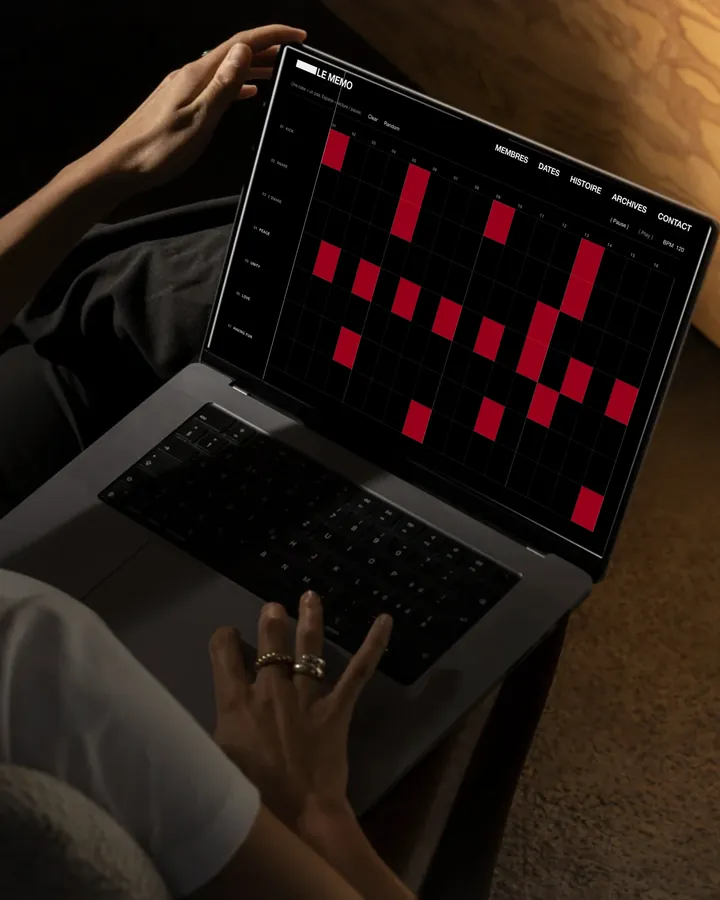
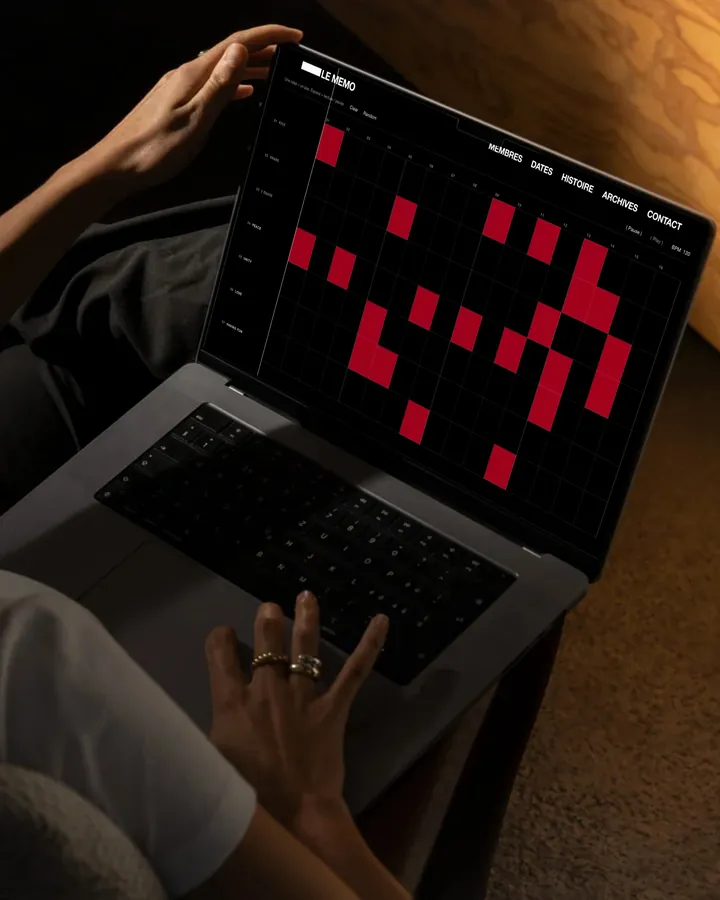
Work : nouvelle photo de mise en situation pour LE MEMO

diff --git a/work.html b/work.html
@@ -641,8 +641,8 @@
                     <article class="piece reveal">
                         <a class="piece__link" href="https://lememo-eight.vercel.app/" target="_blank" rel="noopener noreferrer">
                             <div class="piece__media">
-                                <img class="piece__img" src="assets/images/work-memo-720.webp?v=2"
-                                    srcset="assets/images/work-memo-720.webp?v=2 720w, assets/images/work-memo-1440.webp?v=2 1440w"
+                                <img class="piece__img" src="assets/images/work-memo-720.webp?v=3"
+                                    srcset="assets/images/work-memo-720.webp?v=3 720w, assets/images/work-memo-1440.webp?v=3 1440w"
                                     sizes="(min-width: 1100px) 30vw, (min-width: 760px) 46vw, 92vw"
                                     alt="Capture du site de LE MEMO, collectif lausannois, dont l&#x27;accueil est un séquenceur musical, conçu par WeAreBrothers Lausanne" loading="lazy" decoding="async"
                                     width="1440" height="1800">
